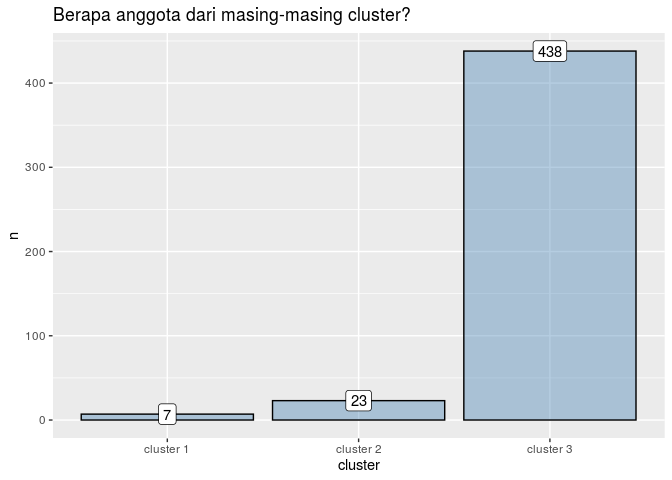
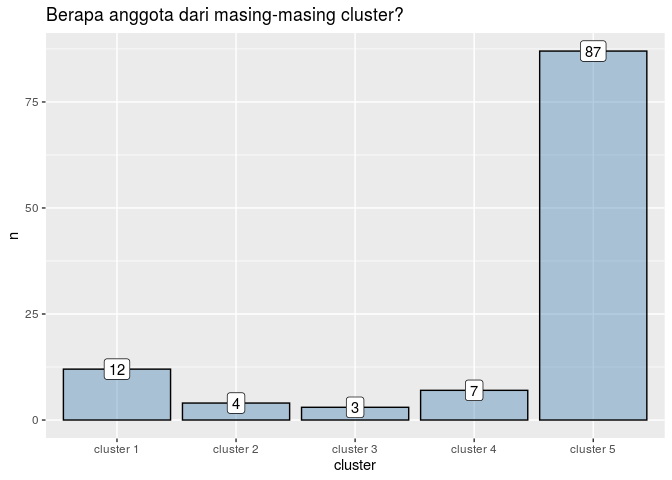
final post

diff --git a/Bukan Infografis/real film companies/2019-12-10-blog-produsen-film.md b/Bukan Infografis/real film companies/2019-12-10-blog-produsen-film.md
@@ -60,8 +60,8 @@ Variabel yang didapatkan antara lain:
 4.  `total_worldwide_box_office`: pendapatan film total *worldwide*.
 
 Sekarang, saya hanya akan memilih perusahaan yang minimal telah
-memproduksi 10 film lalu saya buat *scatter plot* dari data tersebut.
-Didapat hanya `468` buah perusahaan. Sumbu `x` akan saya isi dengan
+memproduksi 30 film lalu saya buat *scatter plot* dari data tersebut.
+Didapat hanya `113` buah perusahaan. Sumbu `x` akan saya isi dengan
 `no_of_movies` dan sumbu `y` akan saya isi dengan
 `total_worldwide_box_office`, sementara *size* dari *point* tergantung
 dari besarnya
@@ -72,6 +72,12 @@ dari besarnya
 ![](2019-12-10-blog-produsen-film_files/figure-gfm/unnamed-chunk-4-1.png)<!-- -->
 
 *Gimana?* sudah terlihat `production_companies` favorit kamu?
+
+> *Btw menarik yah*, **Marvel Studios** dengan jumlah film lebih sedikit
+> sudah melewati capaian 20th **Century Fox** dan **Paramount
+> Pictures**.
+
+-----
 
 ## *Clustering Analysis* dari data
 
@@ -94,7 +100,7 @@ adalah menentukan berapa banyak *cluster* yang harus dibuat. Untuk
 menentukannya, kita bisa menggunakan tiga metode:
 
 1.  *Elbow method*
-2.  *Sillhoutte method*
+2.  *Silhoutte method*
 3.  *Gap Stat method*
 
 Dengan alasan kemudahan untuk melihat hasil, dari tiga metode tersebut
@@ -103,17 +109,183 @@ yah.
 
 ![](2019-12-10-blog-produsen-film_files/figure-gfm/unnamed-chunk-5-1.png)<!-- -->
 
-Ternyata disarankan ada tiga buah *clusters* yang terbentuk. Mari kita
-*generate* *clusters*
-    nya\!
+Nah, salah satu *kelemahan elbow method* adalah penentuan banyaknya
+*clusters* bisa jadi subjektif tergantung *visual* masing-masing orang.
 
-## 8-means clustering
+> *Trus kalau gtu kenapa gak pakai: silhoutte method atau gap stat
+> method saja yang lebih jelas dalam menentukan banyaknya cluster?*
+
+Seperti biasa, hal tersebut sengaja dilakukan sebagai latihan buat
+kalian yang membaca tulisan ini yah *guys*.
+
+Kali ini saya akan memilih banyaknya *cluster* `k
+    = 5`.
+
+-----
+
+## *5-means clustering*
 
     ##   no_of_movies total_domestic_box_office total_worldwide_box_office
-    ## 1         4.43                      5.14                       5.29
-    ## 2         2.78                      1.83                       1.91
-    ## 3         1.06                      1.01                       1.01
+    ## 1         1.83                      2.42                       2.42
+    ## 2         2.75                      4.50                       4.75
+    ## 3         6.00                      6.00                       6.00
+    ## 4         3.86                      1.29                       1.29
+    ## 5         1.10                      1.00                       1.02
 
-![](2019-12-10-blog-produsen-film_files/figure-gfm/unnamed-chunk-6-1.png)<!-- -->
+Kita bisa melihat karakteristik dari masing-masing *cluster*-nya sebagai
+berikut:
 
-final\(cluster new_data\)cluster = final$cluster head(new\_data)
+1.  Cluster 1: `production_companies` yang tidak banyak membuat film
+    tapi pendapatan lokal dan *worldwide*-nya biasa saja.
+2.  Cluster 2: `production_companies` yang lumayan membuat film (tapi
+    tidak bisa dibilang banyak) tapi pendapatan lokal dan
+    *worldwide*-nya termasuk tinggi.
+3.  Cluster 3: `production_companies` yang bisa dibilang *“they are the
+    kings”*. Tinggi di semua aspek.
+4.  Cluster 4: `production_companies` yang lumayan banyak membuat film
+    tapi memiliki pendapatan lokal dan *worldwide* yang kecil.
+5.  Cluster 5: `production_companies` yang kecil di semua
+aspek.
+
+![](2019-12-10-blog-produsen-film_files/figure-gfm/unnamed-chunk-7-1.png)<!-- -->
+
+### Kita liat `production_companies` mana saja di masing-masing cluster yah
+
+#### Cluster 1
+
+    ##            production_companies
+    ## 1              Relativity Media
+    ## 2           DreamWorks Pictures
+    ## 3            Dune Entertainment
+    ## 4            Legendary Pictures
+    ## 5               New Line Cinema
+    ## 6          Amblin Entertainment
+    ## 7          DreamWorks Animation
+    ## 8  Village Roadshow Productions
+    ## 9  Metro-Goldwyn-Mayer Pictures
+    ## 10          Touchstone Pictures
+    ## 11         RatPac Entertainment
+    ## 12         Summit Entertainment
+
+#### Cluster 2
+
+    ##   production_companies
+    ## 1 Walt Disney Pictures
+    ## 2       Marvel Studios
+    ## 3   Paramount Pictures
+    ## 4     20th Century Fox
+
+#### Cluster 3
+
+    ##   production_companies
+    ## 1         Warner Bros.
+    ## 2    Columbia Pictures
+    ## 3   Universal Pictures
+
+#### Cluster 4
+
+    ##   production_companies
+    ## 1  Regency Enterprises
+    ## 2            Lionsgate
+    ## 3            Blumhouse
+    ## 4           Canal Plus
+    ## 5          StudioCanal
+    ## 6            BBC Films
+    ## 7                  BFI
+
+#### Cluster 5 (yang terbanyak)
+
+    ##              production_companies
+    ## 1         di Bonaventura Pictures
+    ## 2               Fox 2000 Pictures
+    ## 3           Imagine Entertainment
+    ## 4               TSG Entertainment
+    ## 5    The Kennedy/Marshall Company
+    ## 6                   Original Film
+    ## 7             Working Title Films
+    ## 8                   Happy Madison
+    ## 9          Spyglass Entertainment
+    ## 10          Twentieth Century Fox
+    ## 11         Perfect World Pictures
+    ## 12        Scott Rudin Productions
+    ## 13      Temple Hill Entertainment
+    ## 14                Silver Pictures
+    ## 15                    New Regency
+    ## 16              Tri-Star Pictures
+    ## 17      Castle Rock Entertainment
+    ## 18             Revolution Studios
+    ## 19                   Walden Media
+    ## 20                    Screen Gems
+    ## 21               Scott Free Films
+    ## 22                Ingenious Media
+    ## 23              Participant Media
+    ## 24            Davis Entertainment
+    ## 25       Fox Searchlight Pictures
+    ## 26                 Focus Features
+    ## 27              Weinstein Company
+    ## 28           Plan B Entertainment
+    ## 29        Lakeshore Entertainment
+    ## 30          21 Laps Entertainment
+    ## 31               Millennium Films
+    ## 32              Gold Circle Films
+    ## 33                     EuropaCorp
+    ## 34             Annapurna Pictures
+    ## 35                  Miramax Films
+    ## 36                   Tribeca Film
+    ## 37       FilmNation Entertainment
+    ## 38                UK Film Council
+    ## 39              Entertainment One
+    ## 40                      Cine Plus
+    ## 41              Anonymous Content
+    ## 42           TF1 Film Productions
+    ## 43                      IM Global
+    ## 44                          Film4
+    ## 45                          Pathe
+    ## 46           Samuel Goldwyn Films
+    ## 47                            A24
+    ## 48                     Wild Bunch
+    ## 49                         Film 4
+    ## 50                 Amazon Studios
+    ## 51                 Orion Pictures
+    ## 52              The Fyzz Facility
+    ## 53               Voltage Pictures
+    ## 54                      Automatik
+    ## 55               Irish Film Board
+    ## 56                   HanWay Films
+    ## 57                        Gaumont
+    ## 58               Screen Australia
+    ## 59                France 3 Cinema
+    ## 60                     Cinecinema
+    ## 61                Telefilm Canada
+    ## 62                Head Gear Films
+    ## 63       Bord Scannan na hEireann
+    ## 64                France 2 Cinema
+    ## 65                   Bron Studios
+    ## 66            Lipsync Productions
+    ## 67              France Television
+    ## 68             Arte France Cinema
+    ## 69                      XYZ Films
+    ## 70                    Film i Vast
+    ## 71              Creative Scotland
+    ## 72              Metrol Technology
+    ## 73              Magnolia Pictures
+    ## 74                     RAI Cinema
+    ## 75                           Arte
+    ## 76                            CNC
+    ## 77                    ARTE France
+    ## 78                      IFC Films
+    ## 79                            ZDF
+    ## 80                      Eurimages
+    ## 81               Passion Pictures
+    ## 82                    Saban Films
+    ## 83                    The Orchard
+    ## 84                        Netflix
+    ## 85 Grindstone Entertainment Group
+    ## 86                   IFC Midnight
+    ## 87           The Hallmark Channel
+
+### Yuk kita plot kembali ke dalam *scatter plot*
+
+![](2019-12-10-blog-produsen-film_files/figure-gfm/unnamed-chunk-13-1.png)<!-- -->
+
+# *Any comments?*
